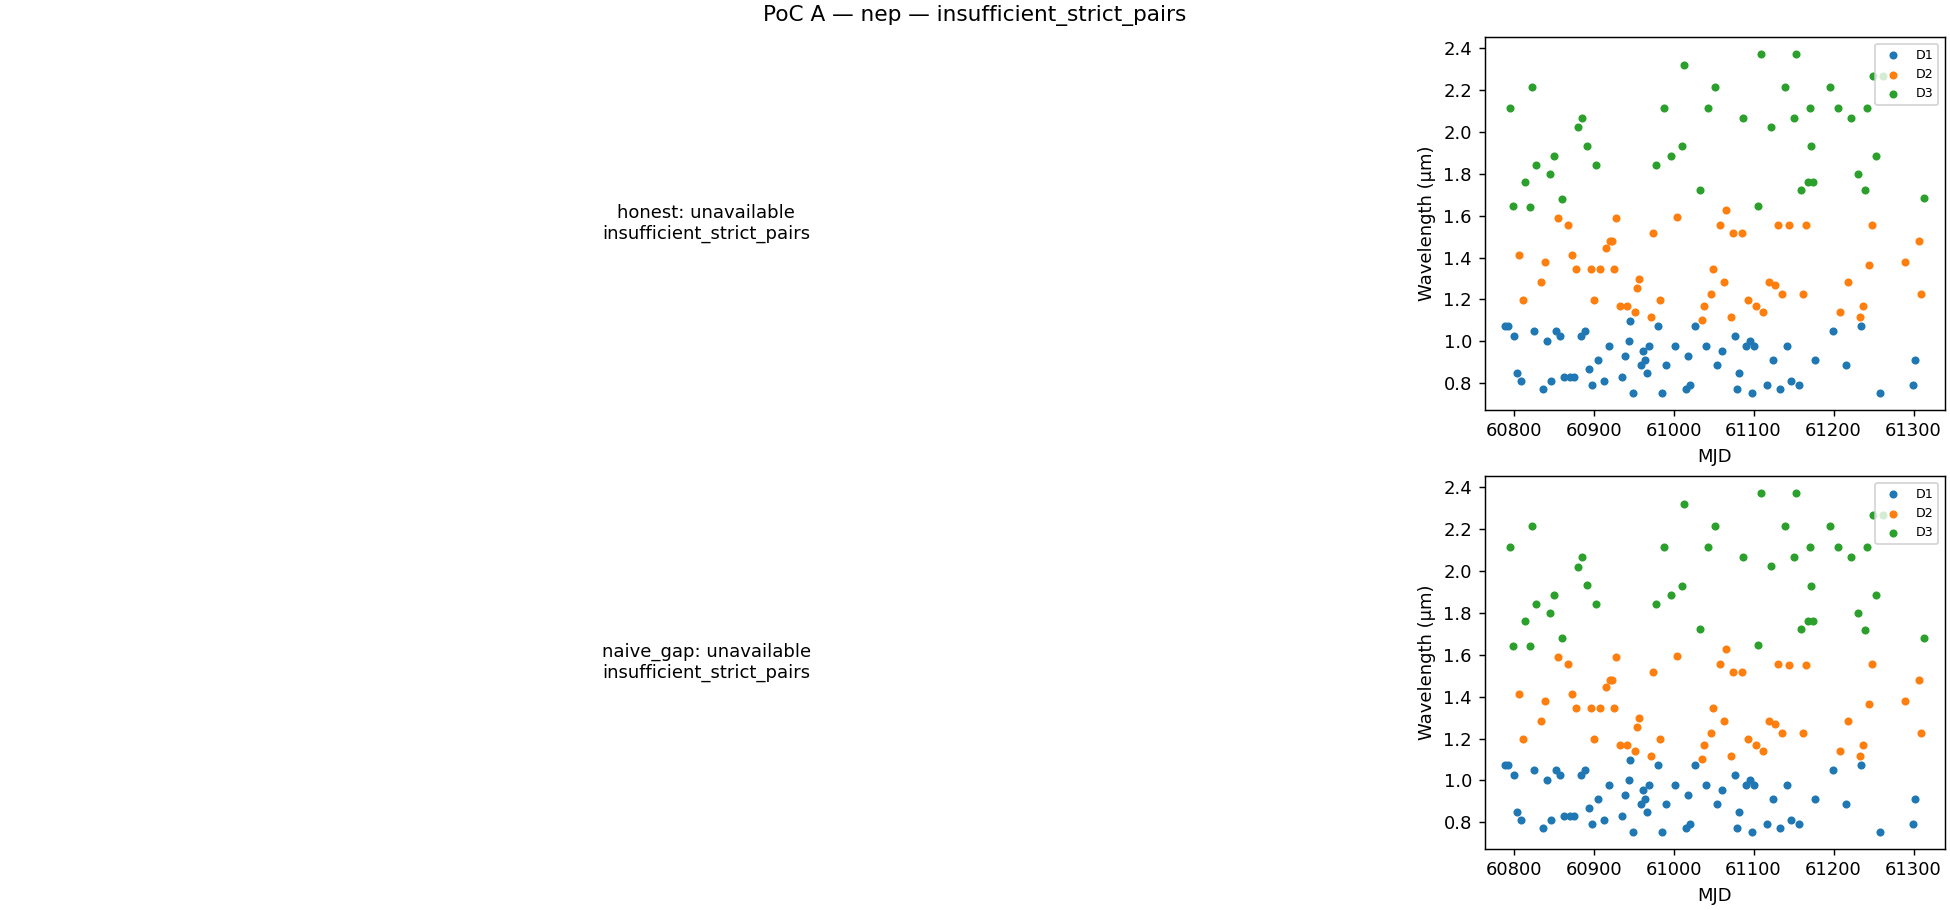
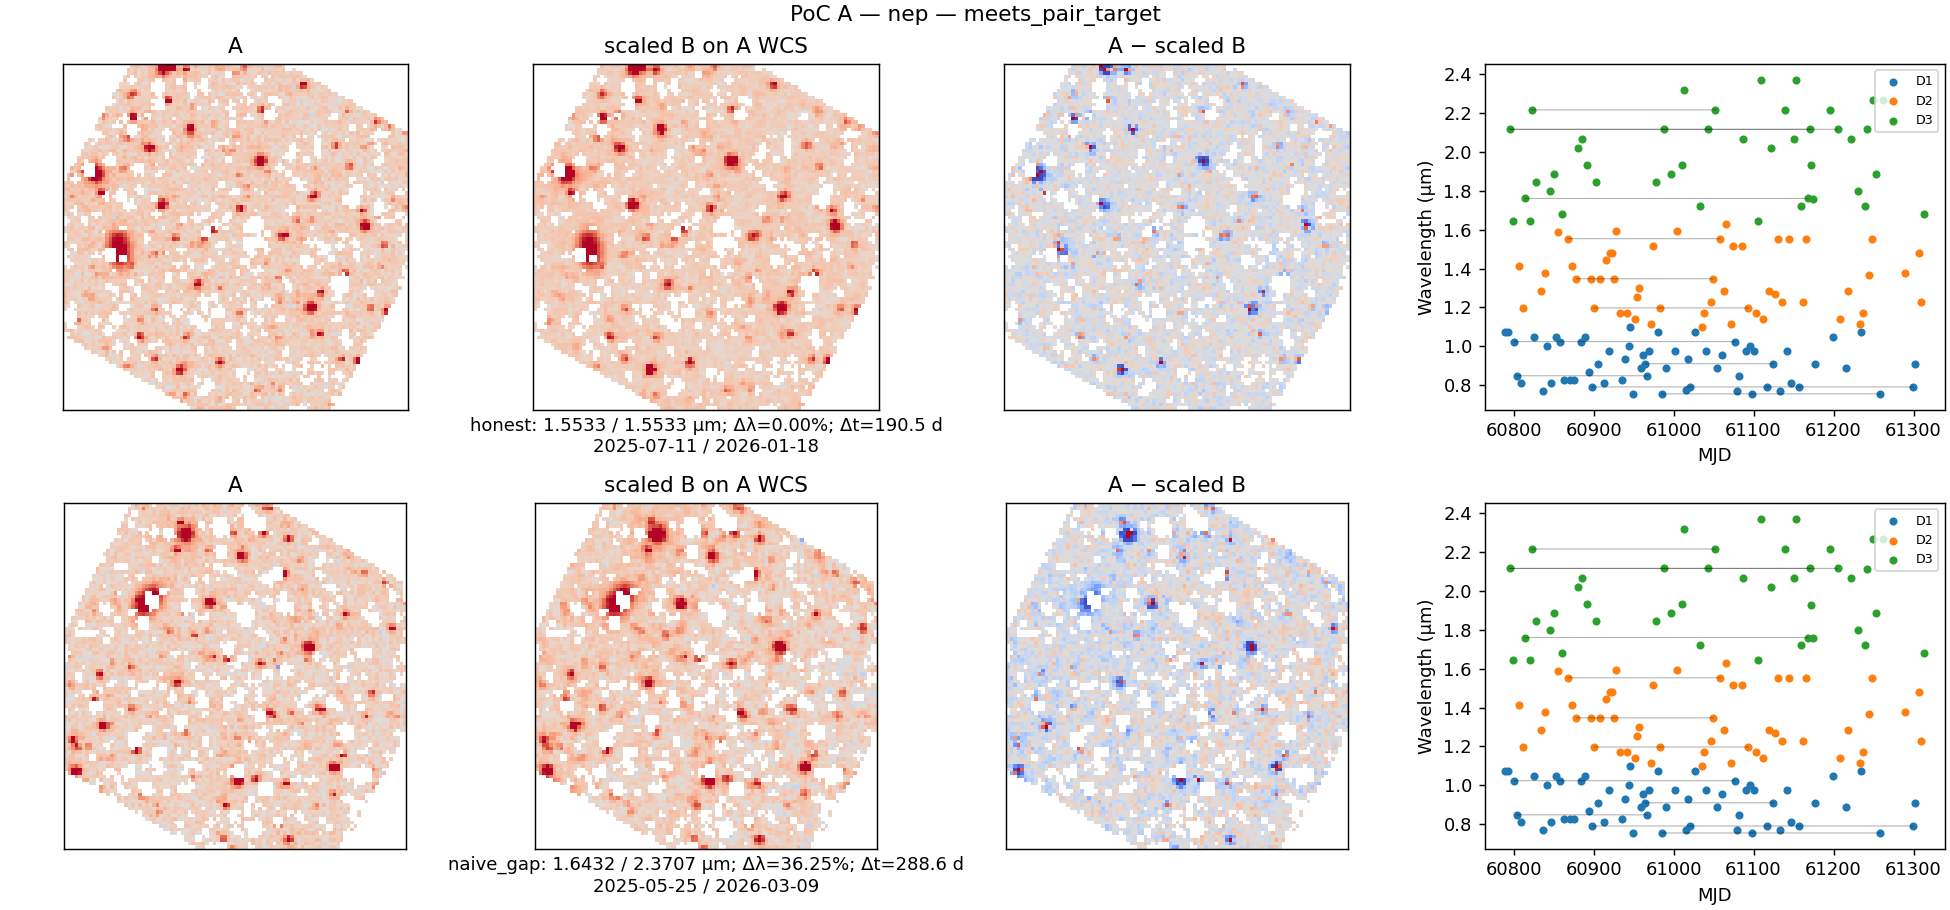
Fix continuous NEP pass labels and honest pair selection

diff --git a/poc/poc_a_honest_blink.py b/poc/poc_a_honest_blink.py
@@ -168,7 +168,8 @@ def write_report(results: list[dict], verdict: str) -> None:
              f"Run: {datetime.now(timezone.utc).isoformat(timespec='seconds')}. "
              "Offline input paths: `data/meta/{m101,nep,ecl}/epochs.csv` and local FITS cutouts; "
              "missing inputs are shown in the table.", "",
-             "Passes use gaps >45 days. Strict pairs require Δλ ≤2% and Δt ≥150 days; "
+             "Display passes use gaps >45 days; a single continuous cluster spanning >150 days "
+             "uses 182.6-day segments from its first MJD. Strict pairs require Δλ ≤2% and Δt ≥150 days; "
              "loose pairs allow Δλ ≤5%. Pair counts are selected outputs (cap 12 per field). "
              "R uses MAD of the reprojected, masked difference divided by median combined variance noise; "
              "B scale is the median positive A/B ratio in the brightest 2% of valid A pixels.", "",
@@ -185,10 +186,11 @@ def write_report(results: list[dict], verdict: str) -> None:
         counts = ", ".join(f"D{d} {v['strict']}/{v['loose']}"
                            for d, v in result["pairs_per_detector"].items()) or "none"
         lines.append(f"- {result['field_id']}: {counts}.")
-    lines += ["", "Limitations: NEP has one pass under the 45-day gap rule, so no cross-pass pairs. "
-              "ECL has no local epochs.csv; no network or deep-collection search was attempted. "
-              "The M101 residual pairs use different detectors and dates. "
-              "Residuals are diagnostic for the selected pairs, not a controlled significance test.", ""]
+    limitations = []
+    if any(result["field_id"] == "ecl" and result["status"] == "missing_epochs" for result in results):
+        limitations.append("ECL has no local epochs.csv; no network or deep-collection search was attempted.")
+    limitations.append("Residuals are diagnostic for the selected pairs, not a controlled significance test.")
+    lines += ["", "Limitations: " + " ".join(limitations), ""]
     doc.write_text("\n".join(lines))
 
 

diff --git a/pipeline/spx/pairs.py b/pipeline/spx/pairs.py
@@ -27,7 +27,10 @@ def assign_survey_pass(mjd: np.ndarray, gap_days: float = 45.0) -> np.ndarray:
     if not len(times):
         return passes
     order = np.argsort(times, kind="stable")
-    sorted_passes = 1 + np.cumsum(np.r_[False, np.diff(times[order]) > gap_days])
+    sorted_times = times[order]
+    sorted_passes = 1 + np.cumsum(np.r_[False, np.diff(sorted_times) > gap_days])
+    if sorted_passes[-1] == 1 and sorted_times[-1] - sorted_times[0] > 150:
+        sorted_passes = 1 + np.floor((sorted_times - sorted_times[0]) / 182.6).astype(np.int64)
     passes[order] = sorted_passes
     return passes
 
@@ -134,8 +137,6 @@ def _candidates(frames: pd.DataFrame, *, min_dt_days: float = 0) -> list[dict]:
         for first in range(len(rows)):
             for second in range(first + 1, len(rows)):
                 a, b = rows[first][1], rows[second][1]
-                if a["survey_pass"] == b["survey_pass"]:
-                    continue
                 if b["mjd"] - a["mjd"] < min_dt_days:
                     continue
                 candidates.append(_pair(a, b, "honest"))
@@ -154,7 +155,7 @@ def match_pairs(
     frames: pd.DataFrame, max_dlam_frac: float = 0.05,
     min_dt_days: float = 150.0, max_pairs: int = 12,
 ) -> pd.DataFrame:
-    """Choose diverse same-detector, cross-pass pairs with matched wavelength."""
+    """Choose diverse same-detector pairs at least min_dt_days apart."""
     if not np.isfinite(max_dlam_frac) or max_dlam_frac < 0:
         raise ValueError("max_dlam_frac must be finite and nonnegative")
     if not np.isfinite(min_dt_days) or min_dt_days < 0:

diff --git a/pipeline/tests/test_pairs.py b/pipeline/tests/test_pairs.py
@@ -38,6 +38,29 @@ def test_passes_follow_gaps_and_keep_input_order() -> None:
     assert assign_survey_pass(np.array([100.0, 145.0, 190.1])).tolist() == [1, 1, 2]
 
 
+def test_continuous_nep_series_has_display_passes_and_pairs() -> None:
+    times = np.arange(60000.0, 60402.0, 2.0)
+    passes = assign_survey_pass(times)
+    assert len(set(passes)) >= 2
+    assert passes[0] == 1
+    assert passes[92] == 2
+    assert passes[183] == 3
+    source = pd.DataFrame({
+        "frame_id": [f"f{i}" for i in range(len(times))],
+        "mjd": times,
+        "detector": 2,
+        "wavelength_um": 1.2,
+        "bad_pixel_fraction": 0.01,
+        "target_bad": False,
+        "status": "ok",
+        "survey_pass": 1,
+    })
+    selected = match_pairs(source)
+    assert len(selected) > 0
+    assert (selected["dt_days"] >= 150).all()
+    assert (selected["pass_a"] == selected["pass_b"]).all()
+
+
 @pytest.mark.parametrize("gap,expected", [
     (0.02, "high"), (0.0201, "medium"),
     (0.05, "medium"), (0.0501, "low"),

diff --git a/docs/EXPERIMENTS.md b/docs/EXPERIMENTS.md
@@ -2,21 +2,21 @@
 
 ## PoC A — Honest Blink
 
-Run: 2026-11-14T10:13:04+00:00. Offline input paths: `data/meta/{m101,nep,ecl}/epochs.csv` and local FITS cutouts; missing inputs are shown in the table.
+Run: 2026-11-14T10:23:18+00:00. Offline input paths: `data/meta/{m101,nep,ecl}/epochs.csv` and local FITS cutouts; missing inputs are shown in the table.
 
-Passes use gaps >45 days. Strict pairs require Δλ ≤2% and Δt ≥150 days; loose pairs allow Δλ ≤5%. Pair counts are selected outputs (cap 12 per field). R uses MAD of the reprojected, masked difference divided by median combined variance noise; B scale is the median positive A/B ratio in the brightest 2% of valid A pixels.
+Display passes use gaps >45 days; a single continuous cluster spanning >150 days uses 182.6-day segments from its first MJD. Strict pairs require Δλ ≤2% and Δt ≥150 days; loose pairs allow Δλ ≤5%. Pair counts are selected outputs (cap 12 per field). R uses MAD of the reprojected, masked difference divided by median combined variance noise; B scale is the median positive A/B ratio in the brightest 2% of valid A pixels.
 
 | Field | Frames | Passes | Strict | Loose | R honest | R naive | Status |
 | --- | ---: | ---: | ---: | ---: | ---: | ---: | --- |
 | m101 | 169 | 3 | 12 | 12 | 1.029 | 1.214 | ok |
-| nep | 159 | 1 | 0 | 0 | — | — | ok |
+| nep | 159 | 3 | 12 | 12 | 0.917 | 0.878 | ok |
 | ecl | 0 | 0 | 0 | 0 | — | — | missing_epochs |
 
-H1: **FAIL**. Success requires at least 3 strict pairs in at least 2 of 3 fields.
+H1: **PASS**. Success requires at least 3 strict pairs in at least 2 of 3 fields.
 
 Per-detector selected pair counts (strict/loose, no 12-pair field cap):
 - m101: D1 34/36, D2 50/51, D3 37/40.
-- nep: D1 0/0, D2 0/0, D3 0/0.
+- nep: D1 23/39, D2 19/29, D3 12/26.
 - ecl: none.
 
-Limitations: NEP has one pass under the 45-day gap rule, so no cross-pass pairs. ECL has no local epochs.csv; no network or deep-collection search was attempted. The M101 residual pairs use different detectors and dates. Residuals are diagnostic for the selected pairs, not a controlled significance test.
+Limitations: ECL has no local epochs.csv; no network or deep-collection search was attempted. Residuals are diagnostic for the selected pairs, not a controlled significance test.
